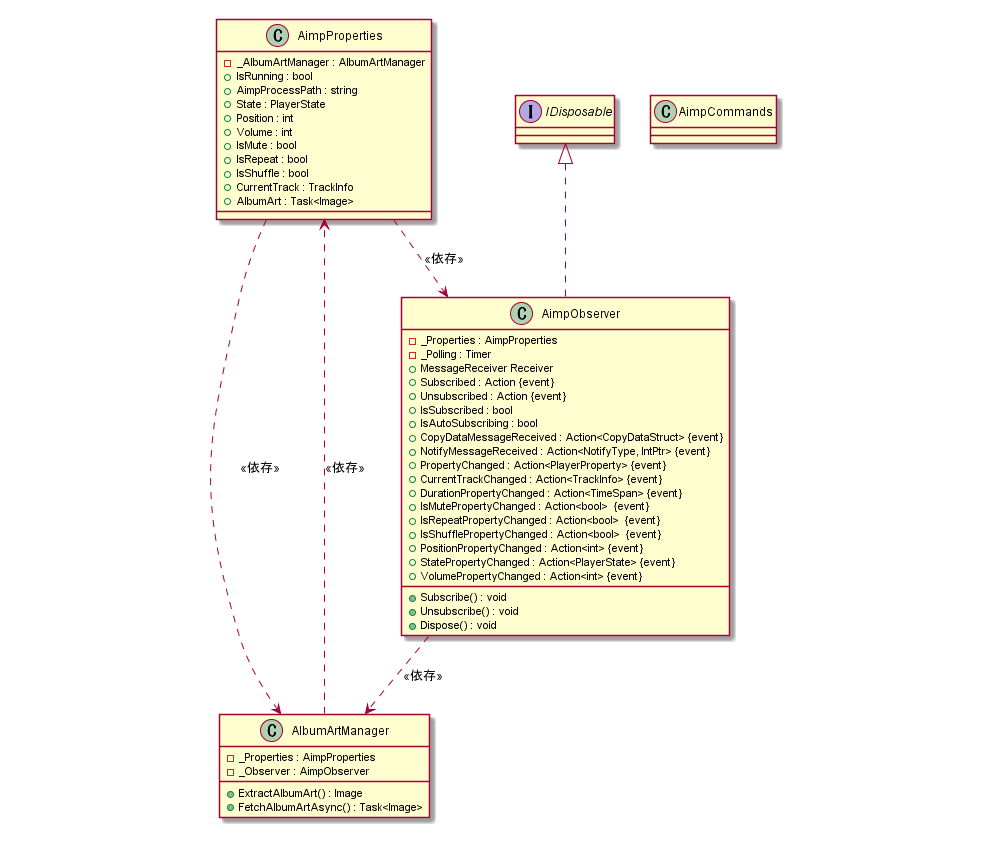
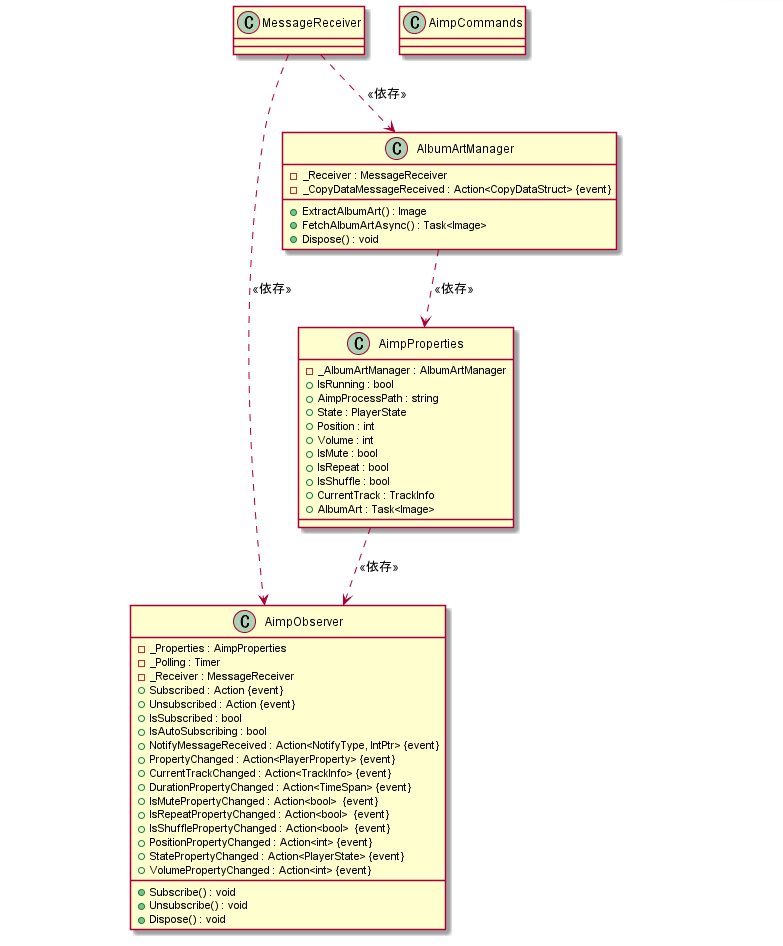
update - update uml diagram - fix accessibility

diff --git a/Legato/AimpObserver.cs b/Legato/AimpObserver.cs
@@ -12,7 +12,7 @@ namespace Legato {
 
 		private System.Timers.Timer _Polling { get; set; }
 
-		public MessageReceiver Receiver { get; set; }
+		private MessageReceiver _Receiver { get; set; }
 
 		/// <summary>
 		/// AIMP の通知を購読した時に発生します
@@ -91,9 +91,8 @@ namespace Legato {
 			};
 			_Polling.Start();
 
-			Receiver = receiver;
-
-			Receiver.MessageReceived += (message, wParam, lParam) => {
+			_Receiver = receiver;
+			_Receiver.MessageReceived += (message, wParam, lParam) => {
 				// NotifyMessageReceived を発行
 				if (message == (WindowMessage)AimpWindowMessage.Notify) {
 					NotifyMessageReceived?.Invoke((NotifyType)wParam, lParam);
@@ -169,7 +168,7 @@ namespace Legato {
 			if (!isRunning)
 				throw new ApplicationException("AIMPが起動していないため、購読に失敗しました");
 
-			Helper.RegisterNotify(Receiver);
+			Helper.RegisterNotify(_Receiver);
 			IsSubscribed = true;
 			Subscribed?.Invoke();
 		}
@@ -183,7 +182,7 @@ namespace Legato {
 				throw new ApplicationException("通知を購読していません");
 
 
-			Helper.UnregisterNotify(Receiver);
+			Helper.UnregisterNotify(_Receiver);
 			IsSubscribed = false;
 			Unsubscribed?.Invoke();
 		}
